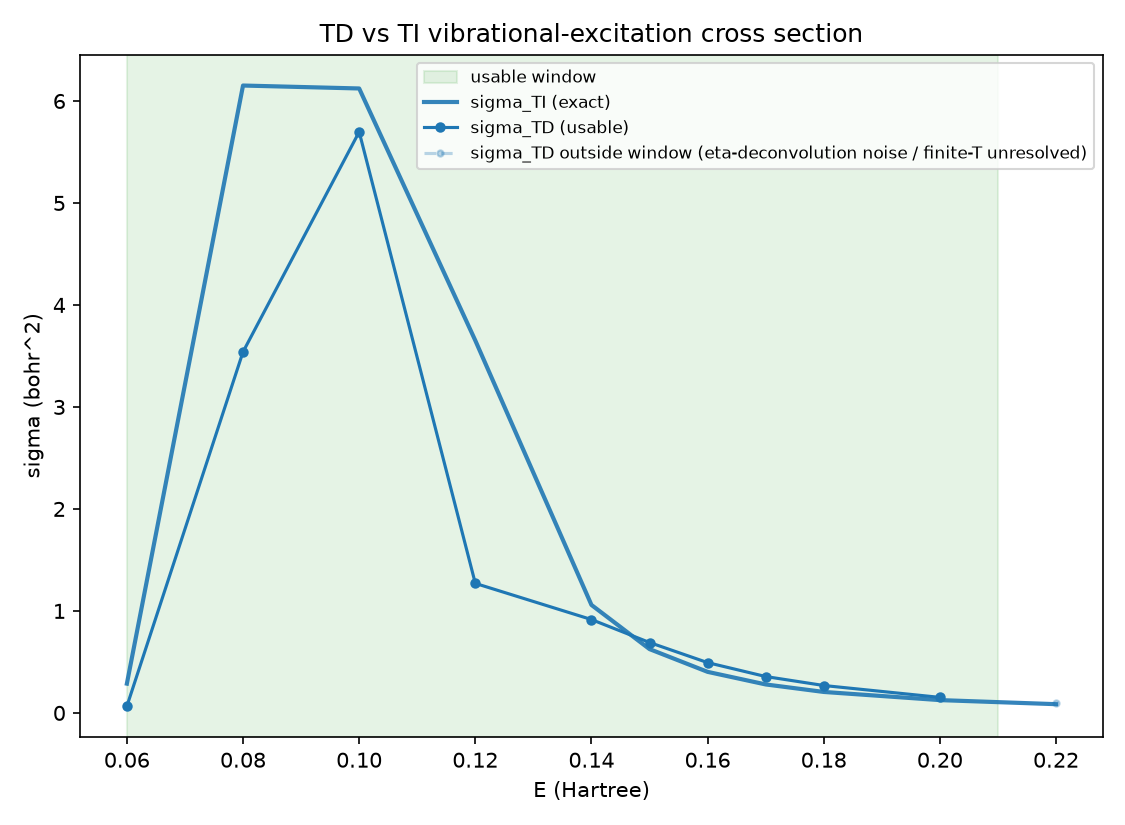
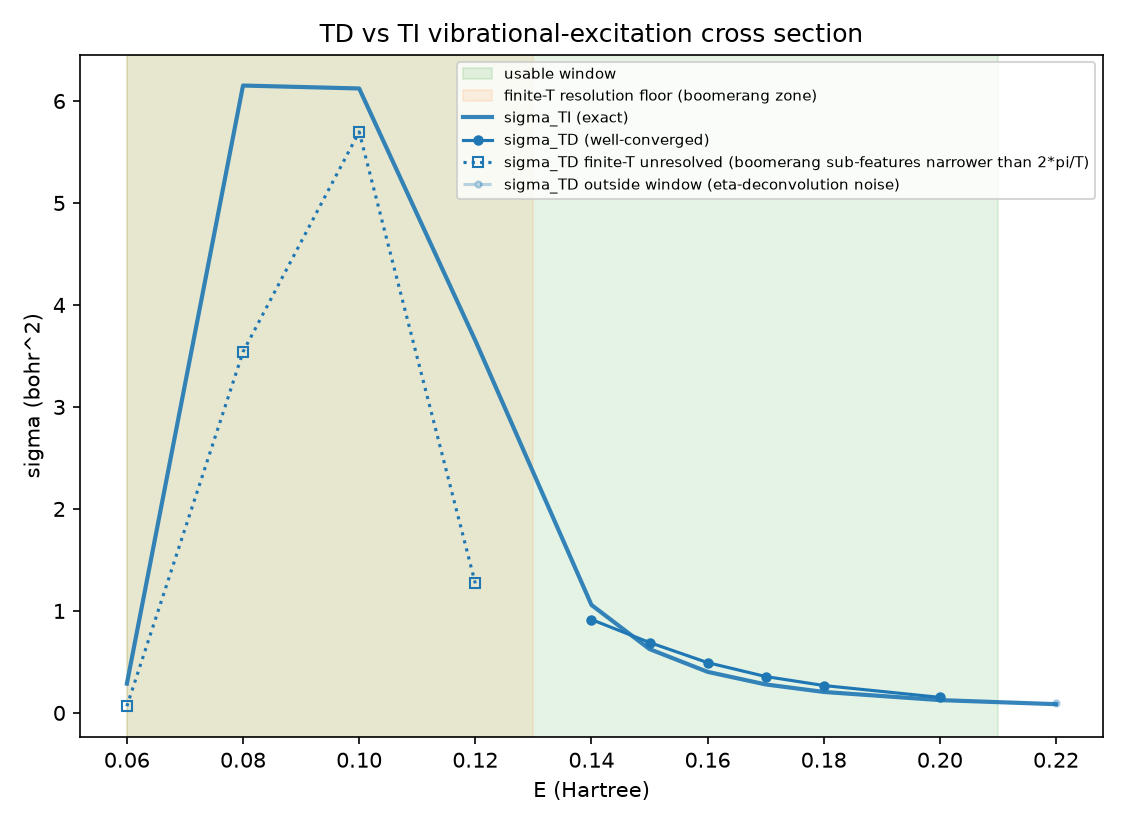
fix(n2-2d-td): honest 3-region sigma figure + public sigma_from_correlations
Review Finding 1: plot_sigma_vs_ti only distinguished usable-window vs
not, hiding the separate finite-T energy-resolution limit Task 5
documented (boomerang sub-features below E~0.13 narrower than 2*pi/T,
where sigma_TD is 2-4x off even though |eta_in| is large). Add a
resolution_floor_e parameter (default 0.13, reasoning documented) and
draw three regions: well-converged (solid), finite-T unresolved
(dotted squares, labeled), outside the spectral window (faded, as
before). Regenerated docs/physics/figures/n2-2d-td-sigma.png from the
saved .npz sigma_TD plus a freshly recomputed sigma_TI oracle -- no
re-propagation needed.

Review Finding 2: promote the private single-energy transform kernel
into a public sigma_from_correlations(tgrid, result, eps, v_init,
vprimes, E, *, dt, wp_in, wp_out), matching td_ve_cross_section_2d's
scalar/array-E shape convention. td_ve_cross_section_2d now calls it
internally (DRY) instead of duplicating the energy loop. Update
test_td_cross_section.py and test_observation.py, the two test files
that were reaching into the underscore-prefixed name, to import the
public one (test_td_convergence.py already only used the public API).

diff --git a/projects/n2_2d_td_cross_section/observation.py b/projects/n2_2d_td_cross_section/observation.py
@@ -20,10 +20,12 @@ Functions:
     packet -> transient anion at the molecule -> decay), plus ||Psi(t)||.
   * `plot_correlation` -- |c_v'(t)| (and Re/Im) vs t, per channel -- the
     correlation build-up.
-  * `plot_sigma_vs_ti` -- sigma_TD(E) overlaid on sigma_TI(E), with the
-    usable window shaded; outside it, sigma_TD is faded and honestly
-    labeled as eta-deconvolution noise / finite-T-unresolved, never
-    presented as signal.
+  * `plot_sigma_vs_ti` -- sigma_TD(E) overlaid on sigma_TI(E), distinguishing
+    THREE honesty regions: well-converged (solid, trustworthy), finite-T
+    unresolved (dotted, inside the spectral window but below the boomerang
+    resolution floor), and outside the spectral window (faded, eta-
+    deconvolution noise). Neither of the latter two is ever presented as
+    trustworthy signal.
 """
 
 from __future__ import annotations
@@ -251,21 +253,50 @@ def plot_sigma_vs_ti(
     sigma_ti: npt.ArrayLike,
     usable: tuple[float, float],
     path: _PathLike,
+    resolution_floor_e: float = 0.13,
 ) -> None:
-    """sigma_TD(E) overlaid on #6's exact sigma_TI(E), usable window shaded.
+    """sigma_TD(E) overlaid on #6's exact sigma_TI(E), THREE honestly-drawn regions.
 
     `sigma_td`/`sigma_ti` are `(n_E,)` or `(n_E, n_ch)` array-likes aligned
     with `E_grid`; `usable = (E_lo, E_hi)` (e.g. from
     `convergence.usable_window`) is the sub-interval where
     `|eta_incident(E)|` is large enough that the Tannor-Weeks deconvolution
-    is trustworthy (see `convergence.usable_window`'s docstring).
+    is trustworthy (see `convergence.usable_window`'s docstring). That
+    spectral-coverage window is NOT the only reliability limit, though: Task
+    5 (`test_td_convergence.py`'s module docstring) documents a SEPARATE
+    finite-time-propagation resolution limit -- below `E ~ 0.13` Ha the exact
+    `sigma_TI(E)` has boomerang sub-features (swings over ranges of order
+    `0.004` Ha) narrower than the propagation's energy resolution
+    `2*pi/T ~ 0.0042` Ha (at `T=1500` a.u.), so `sigma_TD` there can be off by
+    a large factor (measured ratios 5.7 at E=0.09, 0.37 at E=0.11) EVEN WHEN
+    `|eta_incident(E)|` is large -- a resolution problem, not an SNR problem,
+    so it survives being "inside the usable window" and must be flagged
+    separately.
 
-    Inside the window, sigma_TD is drawn as a normal solid marker+line series
-    next to sigma_TI (the exact oracle, solid reference line). OUTSIDE the
-    window, sigma_TD is drawn faded/dashed and labeled honestly as
-    "eta-deconvolution noise / finite-T unresolved" -- it is never presented
-    as signal (per the module docstring's instruction not to mislead about
-    what's plotted there).
+    `resolution_floor_e` (default `0.13`, Hartree) is that finite-T
+    resolution floor: the energy below which the boomerang sub-structure is
+    known to be narrower than `2*pi/T` for the `T=1500` a.u. propagation this
+    module's figures are built from. It is a judgment call read off Task 5's
+    measurements (smooth, well-tracked behavior confirmed from E=0.14 up;
+    sharp sub-0.13 disagreement measured at E=0.09/0.11), not a sharp
+    analytic threshold -- callers propagating at a different `T` should pass
+    a value appropriate to `2*pi/T` for that run.
+
+    Three regions are drawn, most-to-least trustworthy:
+
+      * **well-converged** (`E >= resolution_floor_e` AND inside `usable`):
+        solid marker+line, the trustworthy sigma_TD-vs-sigma_TI comparison.
+      * **finite-T unresolved** (inside `usable` but `E < resolution_floor_e`,
+        the boomerang zone): drawn with a distinct marker/linestyle (squares,
+        dotted) and its own legend entry, "finite-T unresolved (boomerang
+        sub-features narrower than 2*pi/T)" -- visually different from both
+        the solid signal and the faded noise-floor points, never presented
+        as trustworthy.
+      * **outside the spectral window** (`|eta_incident(E)|` small): faded/
+        dashed, labeled "eta-deconvolution noise" (unchanged from before).
+
+    No sigma value is altered by this function -- only how each point is
+    drawn and labeled.
     """
     E = np.asarray(E_grid, dtype=np.float64)
     order = np.argsort(E)
@@ -277,21 +308,45 @@ def plot_sigma_vs_ti(
 
     fig, ax = plt.subplots(figsize=(7.5, 5.5))
     ax.axvspan(e_lo, e_hi, color="tab:green", alpha=0.12, label="usable window", zorder=0)
+    if e_lo < resolution_floor_e < e_hi:
+        ax.axvspan(
+            e_lo,
+            resolution_floor_e,
+            color="tab:orange",
+            alpha=0.10,
+            label="finite-T resolution floor (boomerang zone)",
+            zorder=0,
+        )
 
     below = E < e_lo
-    inside = (E >= e_lo) & (E <= e_hi)
     above = E > e_hi
+    unresolved = (E >= e_lo) & (E < resolution_floor_e)
+    converged = (E >= resolution_floor_e) & (E <= e_hi)
 
     for j in range(n_ch):
         color = f"C{j}"
         ti_label = "sigma_TI (exact)" if n_ch == 1 else f"sigma_TI v'={j}"
         ax.plot(E, ti[:, j], "-", color=color, lw=2, alpha=0.9, label=ti_label)
 
-        td_label = "sigma_TD (usable)" if n_ch == 1 else f"sigma_TD v'={j} (usable)"
-        if np.any(inside):
-            ax.plot(E[inside], td[inside, j], "o-", color=color, ms=4, label=td_label)
+        td_label = "sigma_TD (well-converged)" if n_ch == 1 else f"sigma_TD v'={j} (well-converged)"
+        if np.any(converged):
+            ax.plot(E[converged], td[converged, j], "o-", color=color, ms=4, label=td_label)
 
-        noise_label = "sigma_TD outside window (eta-deconvolution noise / finite-T unresolved)"
+        unresolved_label = (
+            "sigma_TD finite-T unresolved (boomerang sub-features narrower than 2*pi/T)"
+        )
+        if np.any(unresolved):
+            ax.plot(
+                E[unresolved],
+                td[unresolved, j],
+                "s:",
+                color=color,
+                ms=5,
+                mfc="none",
+                label=unresolved_label if j == 0 else None,
+            )
+
+        noise_label = "sigma_TD outside window (eta-deconvolution noise)"
         first_outside = True
         for mask in (below, above):
             if np.any(mask):
@@ -309,7 +364,7 @@ def plot_sigma_vs_ti(
     ax.set_xlabel("E (Hartree)")
     ax.set_ylabel("sigma (bohr^2)")
     ax.set_title("TD vs TI vibrational-excitation cross section")
-    ax.legend(fontsize=8)
+    ax.legend(fontsize=7)
     fig.tight_layout()
     fig.savefig(Path(path), dpi=150)
     plt.close(fig)

diff --git a/projects/n2_2d_td_cross_section/td_cross_section.py b/projects/n2_2d_td_cross_section/td_cross_section.py
@@ -47,7 +47,7 @@ from projects.n2_2d_td_cross_section.correlation import (
 from projects.n2_2d_td_cross_section.td_propagation import PropagationResult, propagate
 from projects.n2_2d_td_cross_section.wavepacket import initial_state
 
-__all__ = ["td_ve_cross_section_2d"]
+__all__ = ["sigma_from_correlations", "td_ve_cross_section_2d"]
 
 # Wavepacket parameter dict keys `initial_state`/`outgoing_channel` accept
 # (r0/p0/sigma for the incident packet; r0_out/p0_out/sigma_out for the
@@ -97,7 +97,7 @@ def _propagate(
     return propagate(tgrid, psi0, out_channels, dt=dt, n_steps=n_steps)
 
 
-def _sigma_from_correlations(
+def _sigma_one_energy(
     tgrid: TensorGrid,
     result: PropagationResult,
     eps: npt.NDArray[np.float64],
@@ -108,6 +108,13 @@ def _sigma_from_correlations(
     wp_in: _WpIn,
     wp_out: _WpOut,
 ) -> npt.NDArray[np.float64]:
+    """`sigma_{v_init->v'}(E)` (bohr^2) at a single scalar `E`, shape `(len(vprimes),)`.
+
+    The per-energy transform of an already-computed `PropagationResult` --
+    the single-energy kernel both `sigma_from_correlations` (which adds the
+    scalar-or-array `E` convention) and `td_ve_cross_section_2d` (which also
+    runs the propagation) build on.
+    """
     sigma = np.zeros(len(vprimes), dtype=np.float64)
     if E <= 0.0:
         return sigma
@@ -129,6 +136,53 @@ def _sigma_from_correlations(
         delta = 1.0 if vp == v_init else 0.0
         sigma[j] = np.pi * abs(s - delta) ** 2 / (2.0 * E)
     return sigma
+
+
+def sigma_from_correlations(
+    tgrid: TensorGrid,
+    result: PropagationResult,
+    eps: npt.NDArray[np.float64],
+    v_init: int,
+    vprimes: list[int],
+    E: float | npt.ArrayLike,
+    *,
+    dt: float,
+    wp_in: _WpIn,
+    wp_out: _WpOut,
+) -> npt.NDArray[np.float64]:
+    """sigma_{v_init->v'}(E) (bohr^2) from an ALREADY-COMPUTED `PropagationResult`.
+
+    The "cheap sigma(E) from a stored propagation" primitive: unlike
+    `td_ve_cross_section_2d`, this never runs (or re-runs) the Crank-Nicolson
+    propagation -- it only transforms the `c_{v'}(t)` already sitting in
+    `result` (e.g. loaded back from `observation.save_numeric_outputs`'s
+    `.npz`, or a truncated/reused trajectory from a convergence study). This
+    is exactly the "one propagation, many transforms" structural advantage
+    `convergence.sigma_curve`'s docstring describes, exposed here as a public
+    building block instead of requiring callers to reach into a private
+    per-energy helper.
+
+    `E` (collision energy, Hartree) may be scalar or array-like; scalar `E`
+    returns shape `(len(vprimes),)`, array `E` returns `(len(E), len(vprimes))`
+    -- the SAME convention as `td_ve_cross_section_2d` and
+    `projects.n2_2d_cross_section.cross_section_2d.ve_cross_section_2d`.
+
+    `dt`, `wp_in`, `wp_out` must match the values used to produce `result`
+    (the quadrature step and the incident/outgoing wavepacket parameters that
+    `eta_incident`/`eta_outgoing` are evaluated with) -- this function does
+    not validate that consistency, it trusts the caller.
+    """
+    e_arr = np.atleast_1d(np.asarray(E, dtype=np.float64))
+    out = np.stack(
+        [
+            _sigma_one_energy(tgrid, result, eps, v_init, vprimes, float(e), dt, wp_in, wp_out)
+            for e in e_arr
+        ]
+    )
+    scalar = np.isscalar(E) or (isinstance(E, np.ndarray) and np.ndim(E) == 0)
+    if scalar:
+        return np.asarray(out[0], dtype=np.float64)
+    return out
 
 
 def td_ve_cross_section_2d(
@@ -163,17 +217,6 @@ def td_ve_cross_section_2d(
     result = _propagate(
         tgrid, eps, chi, v_init, vprimes, dt=dt, n_steps=n_steps, wp_in=wp_in, wp_out=wp_out
     )
-
-    e_arr = np.atleast_1d(np.asarray(E, dtype=np.float64))
-    out = np.stack(
-        [
-            _sigma_from_correlations(
-                tgrid, result, eps, v_init, vprimes, float(e), dt, wp_in, wp_out
-            )
-            for e in e_arr
-        ]
+    return sigma_from_correlations(
+        tgrid, result, eps, v_init, vprimes, E, dt=dt, wp_in=wp_in, wp_out=wp_out
     )
-    scalar = np.isscalar(E) or (isinstance(E, np.ndarray) and np.ndim(E) == 0)
-    if scalar:
-        return np.asarray(out[0], dtype=np.float64)
-    return out

diff --git a/projects/n2_2d_td_cross_section/test_td_cross_section.py b/projects/n2_2d_td_cross_section/test_td_cross_section.py
@@ -35,13 +35,13 @@
   is the signature of a usable-window residual rather than an unconverged
   transient.
 
-One ~250s propagation is run ONCE at module scope (`_propagate`, not the
+One ~250s propagation is run ONCE at module scope (`td._propagate`, not the
 public `td_ve_cross_section_2d`, so the SAME stored `c(t)` can be
 transformed at multiple truncation lengths for V4 without re-propagating);
-every test transforms it with `_sigma_from_correlations` -- exactly the
-function `td_ve_cross_section_2d` calls internally per-energy, so this
-exercises the real transform, just not the outer scalar/array plumbing
-(covered separately, cheaply, by `test_public_api_shape_contract`).
+every test transforms it with the public `sigma_from_correlations` -- exactly
+the function `td_ve_cross_section_2d` calls internally, so this exercises the
+real transform, just not the outer scalar/array plumbing (covered separately,
+cheaply, by `test_public_api_shape_contract`).
 """
 
 from __future__ import annotations
@@ -93,9 +93,9 @@ def propagation() -> td.PropagationResult:
 @pytest.mark.slow
 def test_v2a_td_matches_ti_at_e010(propagation: td.PropagationResult) -> None:
     sigma_td = float(
-        td._sigma_from_correlations(TG, propagation, EPS, V_INIT, VPRIMES, 0.10, DT, WP_IN, WP_OUT)[
-            0
-        ]
+        td.sigma_from_correlations(
+            TG, propagation, EPS, V_INIT, VPRIMES, 0.10, dt=DT, wp_in=WP_IN, wp_out=WP_OUT
+        )[0]
     )
     assert sigma_td >= 0.0
     # Measured ratio 0.931 at the converged (dt, n_steps) -- see module docstring.
@@ -111,9 +111,9 @@ def test_v2a_td_matches_ti_at_e015_usable_window_edge(propagation: td.Propagatio
     tolerance is set just above the measured value, not tightened to it.
     """
     sigma_td = float(
-        td._sigma_from_correlations(TG, propagation, EPS, V_INIT, VPRIMES, 0.15, DT, WP_IN, WP_OUT)[
-            0
-        ]
+        td.sigma_from_correlations(
+            TG, propagation, EPS, V_INIT, VPRIMES, 0.15, dt=DT, wp_in=WP_IN, wp_out=WP_OUT
+        )[0]
     )
     assert sigma_td >= 0.0
     assert sigma_td == pytest.approx(SIGMA_TI[0.15], rel=0.15)
@@ -125,12 +125,13 @@ def test_v2b_closed_channel_is_exactly_zero(propagation: td.PropagationResult) -
 
     `eps[1] - eps[0] = 0.0124` Ha; at `E = 0.0107 < eps[1] - eps[0]`, the
     channel is closed and `sigma_TD` must be exactly 0 (the `excess <= 0`
-    branch in `_sigma_from_correlations`, not a small-but-nonzero residual).
+    branch in the underlying per-energy transform, not a small-but-nonzero
+    residual).
     """
     e_closed = 0.0107
     assert e_closed + EPS[V_INIT] - EPS[VPRIMES[0]] <= 0.0  # confirms the channel is closed
-    sigma_td = td._sigma_from_correlations(
-        TG, propagation, EPS, V_INIT, VPRIMES, e_closed, DT, WP_IN, WP_OUT
+    sigma_td = td.sigma_from_correlations(
+        TG, propagation, EPS, V_INIT, VPRIMES, e_closed, dt=DT, wp_in=WP_IN, wp_out=WP_OUT
     )
     assert sigma_td[0] == 0.0
 
@@ -145,15 +146,17 @@ def test_v4_finite_t_stability_and_depletion(propagation: td.PropagationResult) 
     check "free" per the task brief.
     """
     full_sigma = float(
-        td._sigma_from_correlations(TG, propagation, EPS, V_INIT, VPRIMES, 0.10, DT, WP_IN, WP_OUT)[
-            0
-        ]
+        td.sigma_from_correlations(
+            TG, propagation, EPS, V_INIT, VPRIMES, 0.10, dt=DT, wp_in=WP_IN, wp_out=WP_OUT
+        )[0]
     )
     short = SimpleNamespace(
         t=propagation.t[: N_STEPS_SHORT + 1], c=propagation.c[: N_STEPS_SHORT + 1, :]
     )
     short_sigma = float(
-        td._sigma_from_correlations(TG, short, EPS, V_INIT, VPRIMES, 0.10, DT, WP_IN, WP_OUT)[0]
+        td.sigma_from_correlations(
+            TG, short, EPS, V_INIT, VPRIMES, 0.10, dt=DT, wp_in=WP_IN, wp_out=WP_OUT
+        )[0]
     )
     assert short_sigma == pytest.approx(full_sigma, rel=0.10)
 

diff --git a/projects/n2_2d_td_cross_section/test_observation.py b/projects/n2_2d_td_cross_section/test_observation.py
@@ -27,7 +27,7 @@ from projects.n2_2d_td_cross_section.observation import (
     plot_snapshots,
     save_numeric_outputs,
 )
-from projects.n2_2d_td_cross_section.td_cross_section import _sigma_from_correlations
+from projects.n2_2d_td_cross_section.td_cross_section import sigma_from_correlations
 from projects.n2_2d_td_cross_section.td_propagation import PropagationResult, propagate
 from projects.n2_2d_td_cross_section.wavepacket import initial_state
 from projects.n2_ti_cross_section.nuclear_grid import n2_nuclear_grid
@@ -60,11 +60,8 @@ def _tiny_result() -> PropagationResult:
 
 
 def _sigma_at(result: PropagationResult, e_grid: np.ndarray) -> np.ndarray:
-    return np.stack(
-        [
-            _sigma_from_correlations(TG, result, EPS, V_INIT, VPRIMES, float(e), DT, WP_IN, WP_OUT)
-            for e in e_grid
-        ]
+    return sigma_from_correlations(
+        TG, result, EPS, V_INIT, VPRIMES, e_grid, dt=DT, wp_in=WP_IN, wp_out=WP_OUT
     )
 
 
